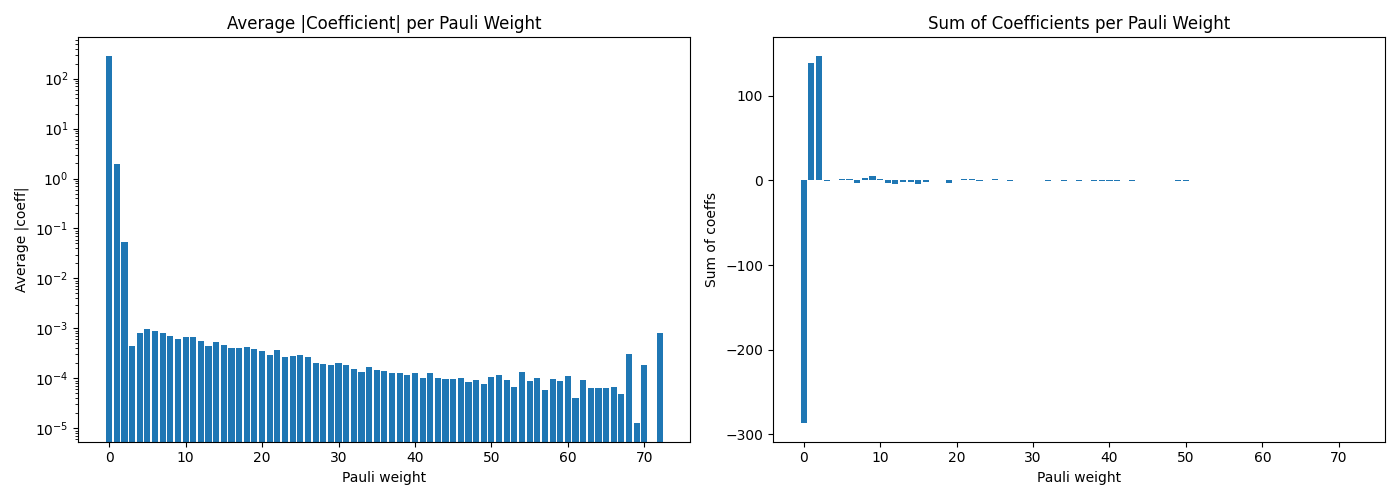
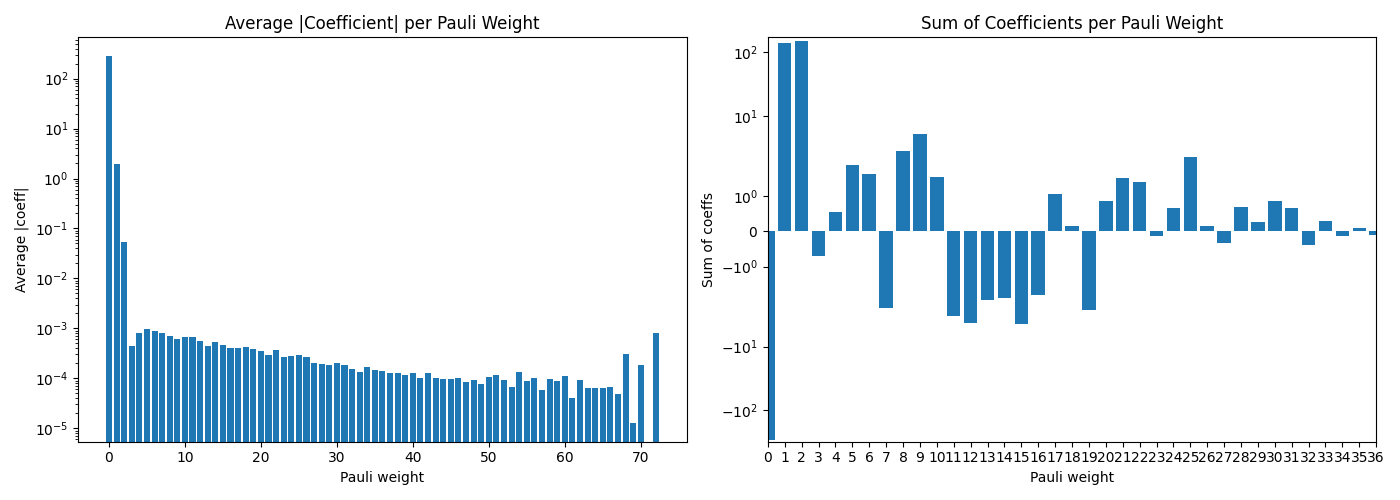
We don't seem to be getting much closer, but things are running super fast

diff --git a/examples/FeS/full-ansatz/gather.py b/examples/FeS/full-ansatz/gather.py
@@ -40,6 +40,22 @@ REFINED_DIR = Path(args.refined_dir)
 NPZ_RE = re.compile(r"FeS_LUCJ_w(\d+)_(\d{5})of(\d{5})\.npz$")
 
 
+def _compress_ids(ids: list[int]) -> str:
+    """Convert a sorted list of ints to SLURM range notation, e.g. [0,1,2,5] -> '0-2,5'."""
+    if not ids:
+        return ""
+    parts = []
+    start = end = ids[0]
+    for n in ids[1:]:
+        if n == end + 1:
+            end = n
+        else:
+            parts.append(f"{start}-{end}" if end > start else str(start))
+            start = end = n
+    parts.append(f"{start}-{end}" if end > start else str(start))
+    return ",".join(parts)
+
+
 def _fmt_time(sec: float) -> str:
     if np.isnan(sec):
         return "—"
@@ -116,7 +132,7 @@ for w in sorted(raw):
 
     if missing_ids:
         print(f"WARNING: weight {w} — {len(missing_ids)} task(s) missing from results/")
-        print(f"         Resubmit: sbatch --array={','.join(map(str, missing_ids))} "
+        print(f"         Resubmit: sbatch --array={_compress_ids(missing_ids)} "
               f"--job-name=FeS-LUCJ-w{w} "
               f"--export=ALL,WEIGHT={w},N_TASKS={n_tasks} run.sh")
 

diff --git a/examples/FeS/full-ansatz/stats.py b/examples/FeS/full-ansatz/stats.py
@@ -99,8 +99,11 @@ def plot_weight_statistics(hamiltonian: SparsePauliOp):
 
     # 2. Sum of coefficients (signed)
     ax[1].bar(weights, sum_coeffs)
+    ax[1].set_xlim(0, 36)
+    ax[1].set_xticks(range(37))
     ax[1].set_title("Sum of Coefficients per Pauli Weight")
     ax[1].set_xlabel("Pauli weight")
+    ax[1].set_yscale("symlog")  # handle positive and negative values
     ax[1].set_ylabel("Sum of coeffs")
 
     plt.tight_layout()
